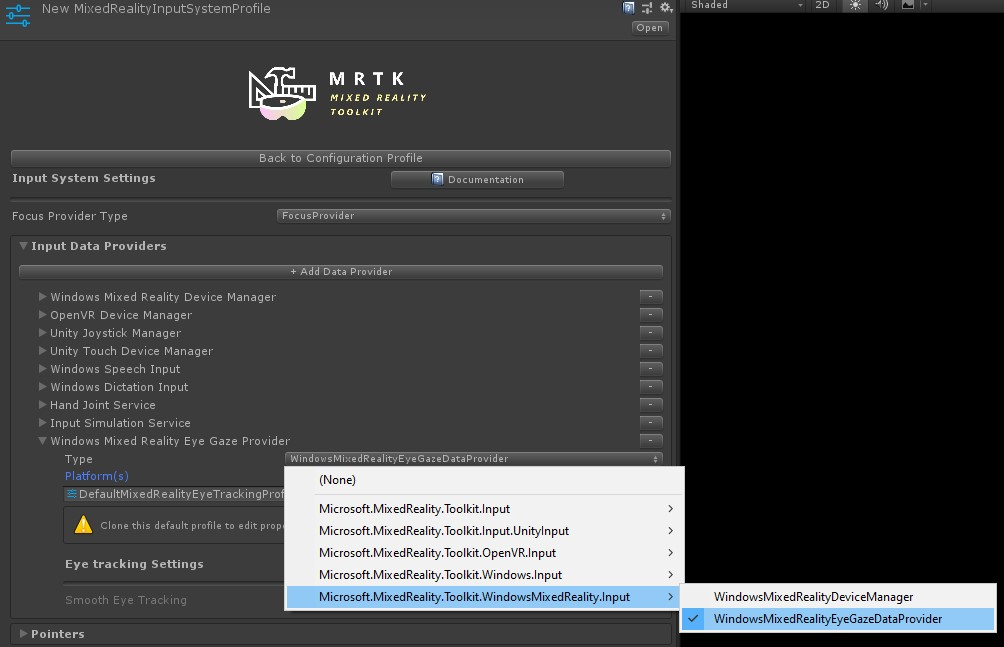
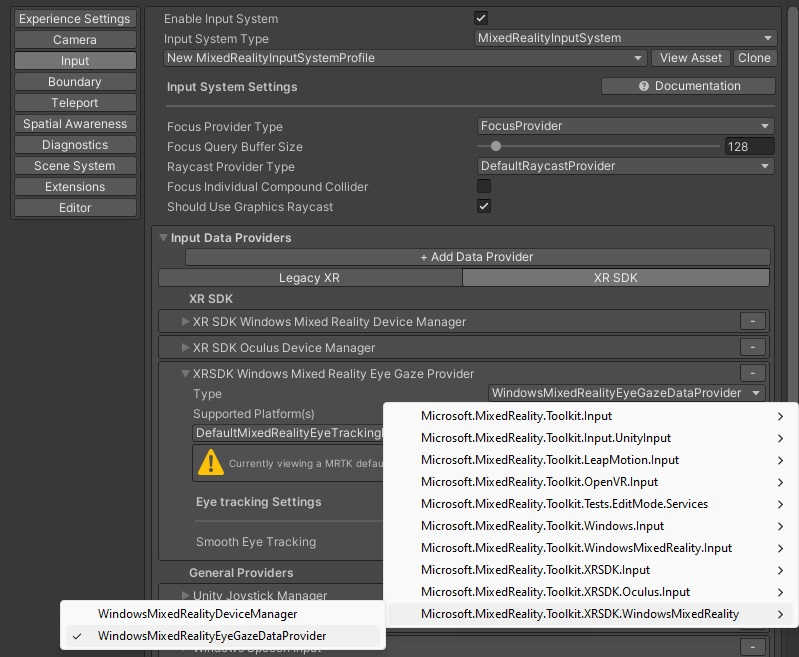
Clean-up pass on eye tracking configuration in MRTK2

diff --git a/mrtk-unity/mrtk2/features/input/eye-tracking/eye-tracking-basic-setup.md b/mrtk-unity/mrtk2/features/input/eye-tracking/eye-tracking-basic-setup.md
@@ -1,10 +1,10 @@
 ---
 title: Eye Tracking Basic Setup
-description: How to setup Eye Tracking in MRTK
-author: CDiaz-MS
-ms.author: cadia
-ms.date: 01/12/2021
-keywords: Unity,HoloLens, HoloLens 2, Mixed Reality, development, MRTK, Eye Tracking,
+description: How to set up Eye Tracking in MRTK
+author: keveleigh
+ms.author: kurtie
+ms.date: 12/19/2022
+keywords: Unity, HoloLens, HoloLens 2, Mixed Reality, development, MRTK, Eye Tracking
 ---
 
 # Getting started with eye tracking in MRTK2
@@ -21,7 +21,7 @@ We will go into detail on how to address each of them further below.
 
 1. An _'Eye Gaze Data Provider'_ must be added to the input system. This provides eye tracking data from the platform.
 2. The _'GazeInput'_ capability must be enabled in the application manifest.
-   **This capability can be set in Unity 2019, but in Unity 2018 and earlier this capability is only available in Visual Studio and through the MRTK build tool**
+   **This capability can be set in Unity 2019, but in Unity 2018 and earlier this capability is only available in Visual Studio and through the MRTK build tool**.
 3. The HoloLens **must** be eye calibrated for the current user. Check out our [sample for detecting whether a user is eye calibrated or not](eye-tracking-is-user-calibrated.md).
 
 ### A note on the GazeInput capability
@@ -64,11 +64,24 @@ You can simply select _DefaultMixedRealityToolkitConfigurationProfile_ and then 
 - Click on the _'Input'_ tab in your MRTK profile.
 - To edit the default one ( _'DefaultMixedRealityInputSystemProfile'_ ), click the _'Clone'_ button next to it. A _'Clone Profile'_ menu appears. Simply click on _'Clone'_ at the bottom of that menu.
 - Double click on your new input profile, expand _'Input Data Providers'_, and select _'+ Add Data Provider'_.
-- Create a new data provider:
-  - Under **Type** select _'Microsoft.MixedReality.Toolkit.WindowsMixedReality.Input'_ -> _'WindowsMixedRealityEyeGazeDataProvider'_
-  - For **Platform(s)** select _'Windows Universal'_.
+- Add the correct data provider:
+  - For legacy Windows Mixed Reality
+    - Under **Type** select _'Microsoft.MixedReality.Toolkit.WindowsMixedReality.Input'_ -> _'WindowsMixedRealityEyeGazeDataProvider'_
+  - For Windows XR Plugin
+    - Under **Type** select _'Microsoft.MixedReality.Toolkit.XRSDK.WindowsMixedReality'_ -> _'WindowsMixedRealityEyeGazeDataProvider'_
+  - For OpenXR
+    - Under **Type** select _'Microsoft.MixedReality.Toolkit.XRSDK.OpenXR'_ -> _'OpenXREyeGazeDataProvider'_
 
 ![MRTK data provider](../../images/eye-tracking/mrtk_setup_eyes_dataprovider.jpg)
+
+### Enable "Use Eye Tracking Data"
+
+- Navigate to your MRTK configuration profile -> _'Input'_ -> _'Pointers'_
+  - Clone the _'DefaultMixedRealityInputPointerProfile'_ to make changes to it.
+- Find _'Use Eye Tracking Data'_ in the settings and enable it.
+- You may see a _'Set GazeInput capability'_ button now and should press it to enable the UWP capability.
+
+![MRTK use eye tracking data](../../images/eye-tracking/mrtk-et-use-data-setting.png)
 
 ### Simulating eye tracking in the Unity Editor
 
@@ -80,8 +93,8 @@ For this, it is better to ensure frequent tests of your eye-based interactions o
 1. **Enable simulated eye tracking**:
     - Click on the _'Input'_ tab in your MRTK configuration profile.
     - From there, navigate to _'Input Data Providers'_ -> _'Input Simulation Service'_.
-    - Clone the _'DefaultMixedRealityInputSimpulationProfile'_ to make changes to it.
-    - Check the _'Simulate Eye Position'_ checkbox.
+    - Clone the _'DefaultMixedRealityInputSimulationProfile'_ to make changes to it.
+    - Select the appropriate _'Default Eye Gaze Simulation Mode'_ setting.
 
     ![MRTK eyes simulate](../../images/eye-tracking/mrtk_setup_eyes_simulate.jpg)
 
@@ -90,7 +103,7 @@ In general, it is recommended to avoid showing an eye gaze cursor or if absolute
 We do recommend to hide the default head gaze cursor that is attached to the MRTK gaze pointer profile by default.
     - Navigate to your MRTK configuration profile -> _'Input'_ -> _'Pointers'_
     - Clone the _'DefaultMixedRealityInputPointerProfile'_ to make changes to it.
-    - At the top of the _'Pointer Settings'_, you should assign an invisible cursor prefab to the _'GazeCursor'_. You can do this by selecting the _'EyeGazeCursor'_ prefab from the MRTK Foundation.
+    - At the top of the _'Pointer Settings'_, you should assign an invisible cursor prefab to the _'Gaze Cursor Prefab'_. You can do this by selecting the _'EyeGazeCursor'_ prefab from the MRTK Foundation.
 
 ### Enabling eye-based gaze in the gaze provider
 
@@ -110,7 +123,7 @@ Now that your scene is set up to use eye tracking, let's take a look at how to a
 
 ### Testing your Unity app on a HoloLens 2
 
-Building your app with eye tracking should be similar to how you would compile other HoloLens 2 MRTK apps. Be sure that you have enabled the *'Gaze Input'* capability as described above in the section [*A note on the GazeInput capability*](#a-note-on-the-gazeinput-capability).
+Building your app with eye tracking should be similar to how you would compile other HoloLens 2 MRTK apps. Be sure that you have enabled the _'Gaze Input'_ capability as described above in the section [_A note on the GazeInput capability_](#a-note-on-the-gazeinput-capability).
 
 #### Ensure project is configured for HoloLens 2
 
